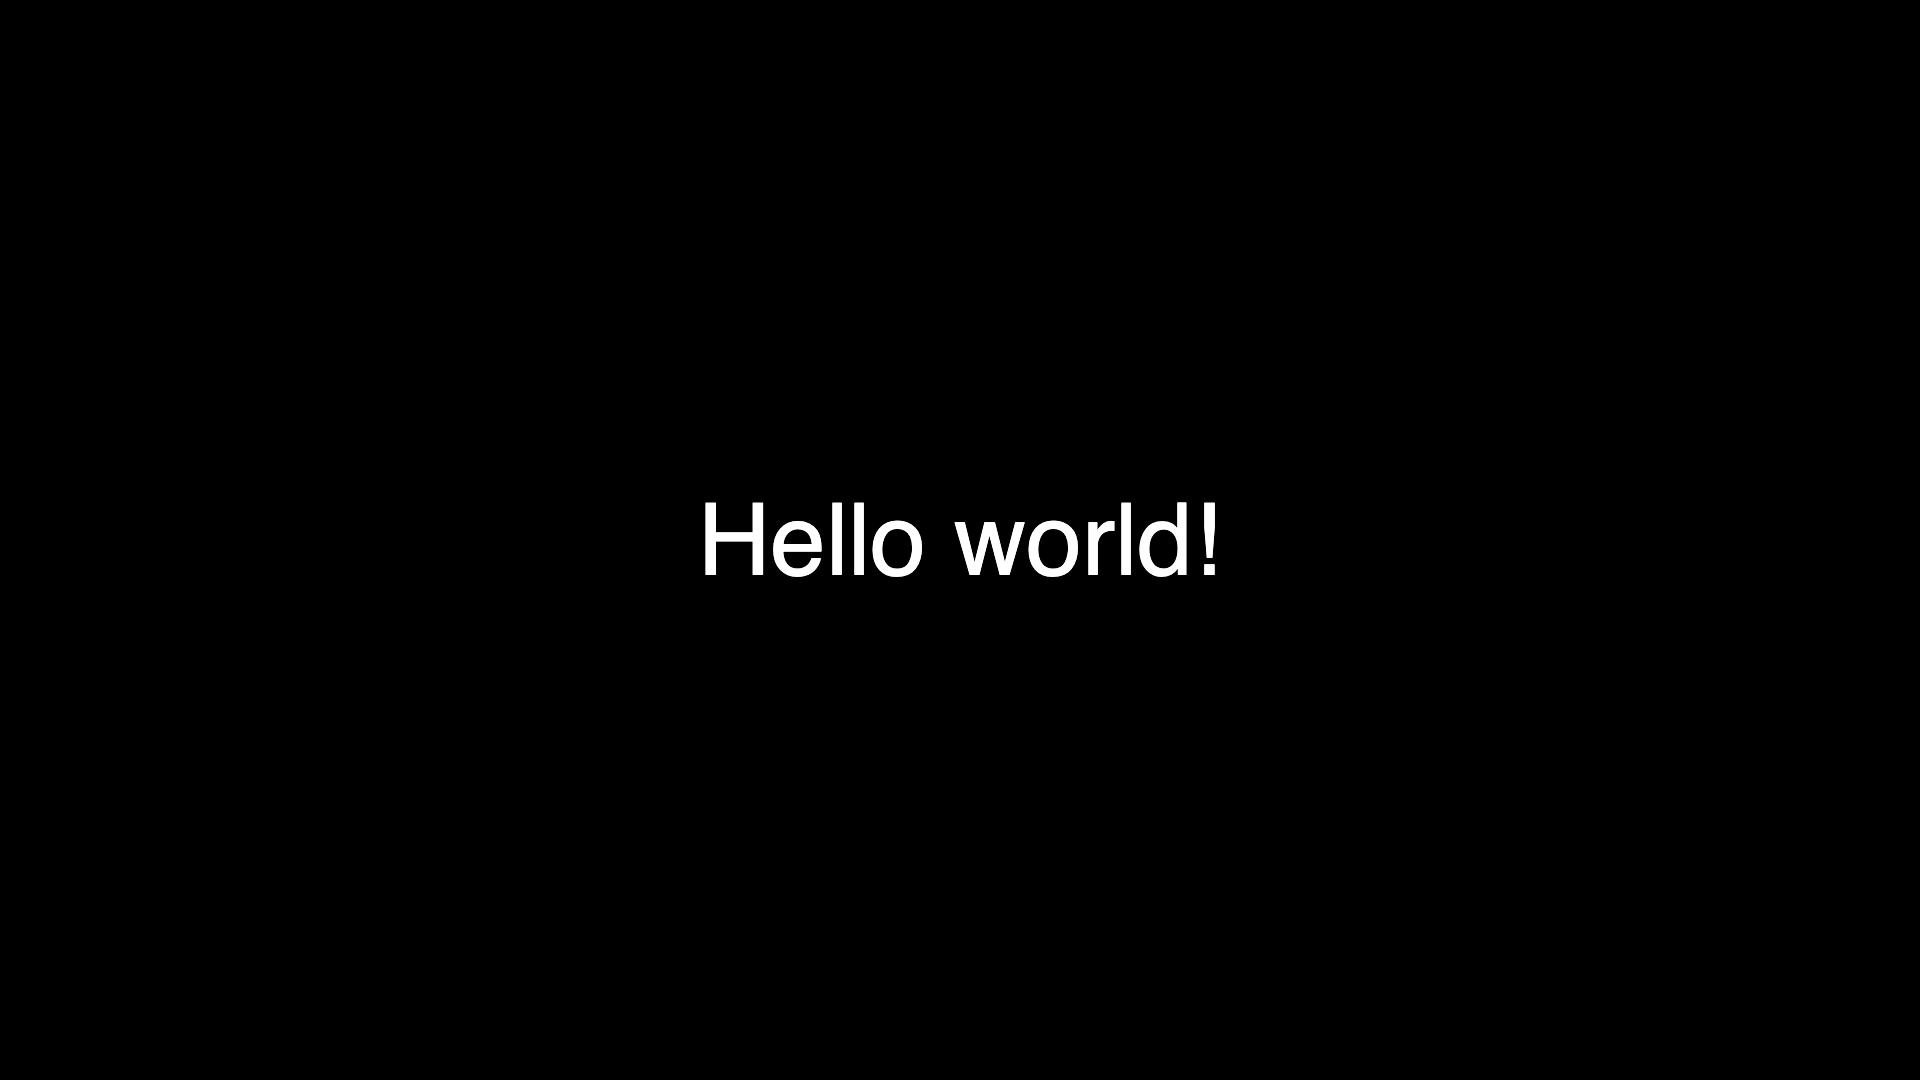
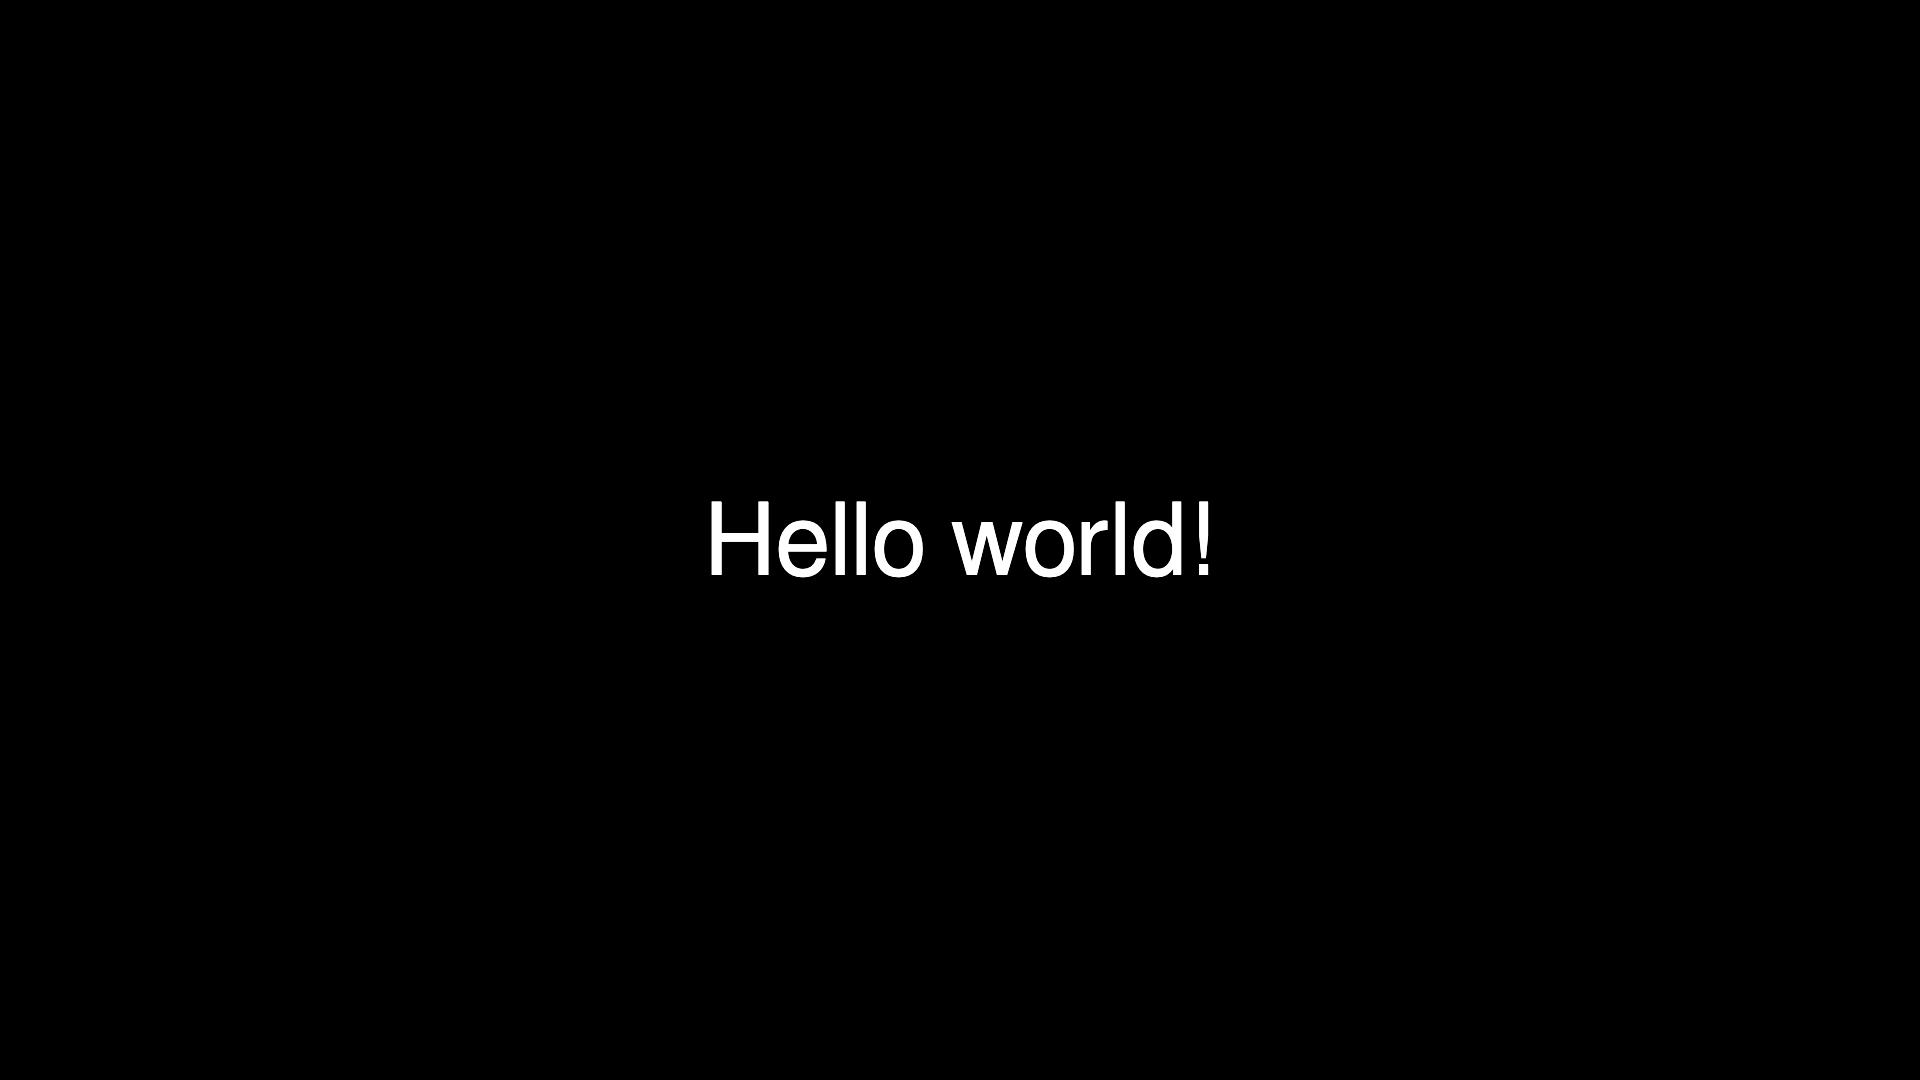
Switch to using FreeSans for tutorial
Hopefully the reference images will more closely match test ones.

Changed region(s): [[0.5, 0.4583, 0.6562, 0.55], [0.3438, 0.4583, 0.4688, 0.55]]

diff --git a/tests/test_scripts.py b/tests/test_scripts.py
@@ -119,7 +119,7 @@ class TestDocumentationDiagrams(unittest.TestCase):
 
     def test_diagrams(self):
         scripts_dir = Path(__file__).parent.parent / 'docs/diagrams'
-        scripts = [path for path in scripts_dir.iterdir() if path.suffix == '.fl']
+        scripts = sorted(path for path in scripts_dir.iterdir() if path.suffix == '.fl')
         self.assertTrue(len(scripts) > 0)
         for i, script in enumerate(scripts):
             with self.subTest(script=script):
@@ -145,7 +145,7 @@ class TestDocumentationTutorial(unittest.TestCase):
 
     def test_diagrams(self):
         scripts_dir = Path(__file__).parent.parent / 'docs/tutorial_images'
-        scripts = [path for path in scripts_dir.iterdir() if path.suffix == '.fl']
+        scripts = sorted(path for path in scripts_dir.iterdir() if path.suffix == '.fl')
         self.assertTrue(len(scripts) > 0)
         for i, script in enumerate(scripts):
             with self.subTest(script=script):
@@ -158,7 +158,7 @@ class TestDocumentationTutorial(unittest.TestCase):
                     asyncio.run(controller.run())
                     output = PIL.Image.open(output_path)
                     self.assertEqual(reference.size, output.size)
-                    self.assertLess(image_diff(reference, output), 0.01)
+                    self.assertLess(image_diff(reference, output), 0.003)
                 finally:
                     if output_path.exists():
                         output_path.unlink()
